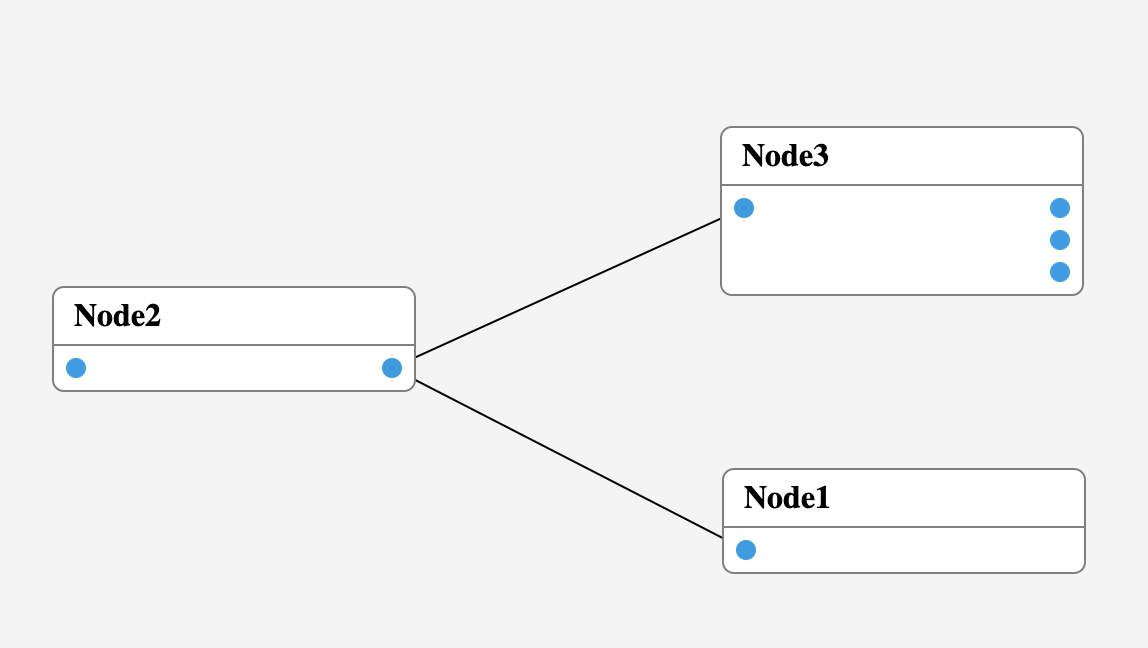
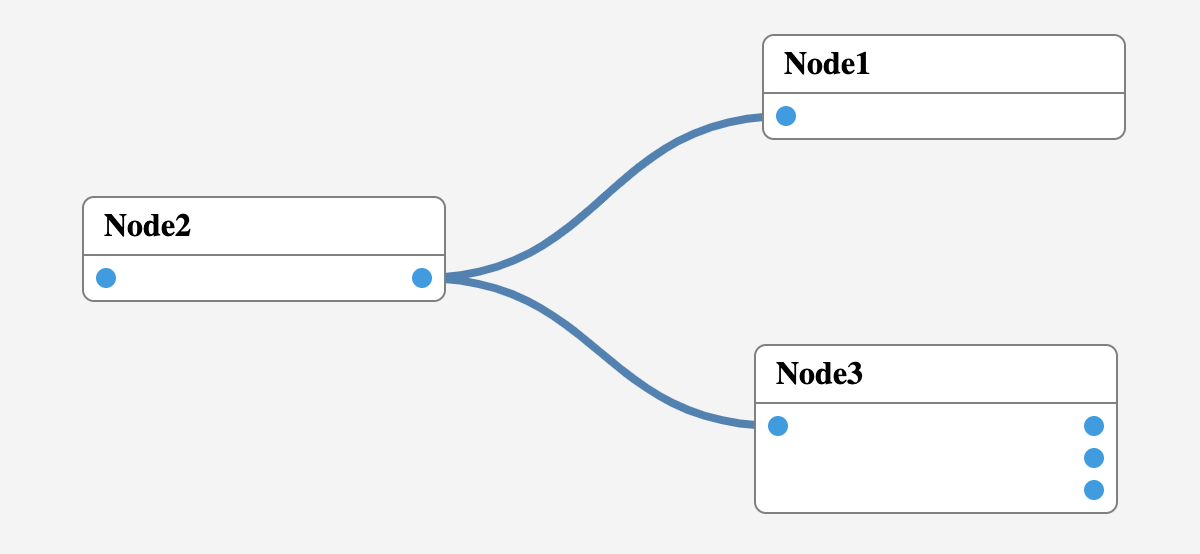
feat: curved connections.

diff --git a/src/extensions/connectors.ext.ts b/src/extensions/connectors.ext.ts
@@ -10,17 +10,21 @@ export function install(args: ExtensionParams) {
         .attr("width", args.width)
         .attr("height", args.height)
 
-    let svgLine: d3.Selection<SVGLineElement, unknown, HTMLElement, any>;
+    let svgLine: d3.Selection<SVGPathElement, unknown, HTMLElement, any>;
     let pinSource: Pin;
+    let originalX, originalY;
 
     eventManager.on('pin:drag:start', (event) => {
+        originalX = event.x
+        originalY = event.y
+        const path = defaultPath([event.x, event.y, event.x, event.y], .5)
+
         svgLine = containerLines
-            .append("line")
-            .attr("x1", event.x)
-            .attr("x2", event.x)
-            .attr("y1", event.y)
-            .attr("y2", event.y)
-            .attr("stroke", "black");
+            .append("path")
+            .attr('fill', 'none')
+            .attr('stroke', 'steelblue')
+            .attr('stroke-width', '4px')
+            .attr('d', path);
 
         pinSource = event.target.__data__.pin;
     })
@@ -28,16 +32,13 @@ export function install(args: ExtensionParams) {
     eventManager.on('pin:drag:dragging', (event) => {
         const x = (event.x);
         const y = (event.y);
-
-        svgLine
-            .attr("x2", x)
-            .attr("y2", y)
+        const path = defaultPath([originalX, originalY, x, y], .5)
+        svgLine.attr('d', path)
     })
 
     eventManager.on('pin:drag:end', (event) => {
         const data = event.target.__data__;
         if (data) {
-            console.log(data);
             const pinTarget: Pin = data.pin;
             pinSource.connectTo(pinTarget, svgLine);
         } else {
@@ -46,19 +47,26 @@ export function install(args: ExtensionParams) {
         }
     })
 
+    /// Drag
+
     eventManager.on('node:drag:start', event => {
         console.log('node drag', event)
     })
 
     eventManager.on('node:drag:dragging', event => {
         const node: NodeComponent = event.node;
+
         node.outputs.map(o => {
             const [x, y] = getCentedRectangle(o.referencePin.node());
 
             o.connectedTo.map(conn => {
+                const pathD = (conn.extra as CommonSelection<SVGLineElement>).node().getAttribute('d');
+                const points = getPoints(pathD)
+                points[0] = x;
+                points[1] = y;
+
                 (conn.extra as CommonSelection<SVGLineElement>)
-                    .attr("x1", x)
-                    .attr("y1", y)
+                    .attr('d', defaultPath(points, .5))
             });
         })
 
@@ -66,9 +74,13 @@ export function install(args: ExtensionParams) {
             const [x, y] = getCentedRectangle(o.referencePin.node());
 
             o.connectedTo.map(conn => {
+                const pathD = (conn.extra as CommonSelection<SVGLineElement>).node().getAttribute('d');
+                const points = getPoints(pathD)
+                points[2] = x;
+                points[3] = y;
+
                 (conn.extra as CommonSelection<SVGLineElement>)
-                    .attr("x2", x)
-                    .attr("y2", y)
+                    .attr('d', defaultPath(points, .5))
             });
         })
     })
@@ -80,4 +92,19 @@ function getCentedRectangle(el: HTMLElement) {
     const centerX = rect.x + (rect.width / 2)
     const centerY = rect.y + (rect.height / 2)
     return [centerX, centerY]
+}
+
+
+export function defaultPath(points: number[], curvature: number) {
+    const [x1, y1, x2, y2] = points;
+    const hx1 = x1 + Math.abs(x2 - x1) * curvature;
+    const hx2 = x2 - Math.abs(x2 - x1) * curvature;
+
+    return `M ${x1} ${y1} C ${hx1} ${y1} ${hx2} ${y2} ${x2} ${y2}`;
+}
+
+function getPoints(d: string): number[] {
+    const m = d.match(/(([0-9]+)(\.[0-9])?)/g)
+    const r = m.map(Number) as number[]
+    return [r[0], r[1], r[6], r[7]]
 }

diff --git a/README.md b/README.md
@@ -12,7 +12,41 @@ Node editor with inputs and outputs based on [d3.js](https://d3js.org/).
 ## TODO
 
 - [ ] Events.
-- [ ] Node Connector.
+- [ ] Export/Import JSON.
+- [x] Node Connector.
+
+## Example
+
+```ts
+import { Editor, NodeComponent, Pin } from "./d3-node-editor";
+import * as Connector from "./d3-node-editor/extensions/connectors.ext";
+
+const root = "#root";
+
+const Node1 = new NodeComponent({ title: "Node1" });
+const Node2 = new NodeComponent({ title: "Node2" });
+const Node3 = new NodeComponent({ title: "Node3" });
+
+const editor = new Editor({
+    name: "schema1",
+    root,
+    nodes: [Node1, Node2, Node3],
+    width: 700,
+    height: 800
+});
+
+Node1.addInputPin(new Pin("out1", "Output 1"));
+
+Node2.addInputPin(new Pin("in1", "Input 1"));
+Node2.addOutputPin(new Pin("out1", "Output 1"));
+
+Node3.addInputPin(new Pin("in1", "Input 1"));
+Node3.addOutputPin(new Pin("out1", "Output 1"));
+Node3.addOutputPin(new Pin("out2", "Output 2"));
+Node3.addOutputPin(new Pin("out3", "Output 3"));
+
+editor.installExtension(Connector.install);
+```
 
 ## Development
 
